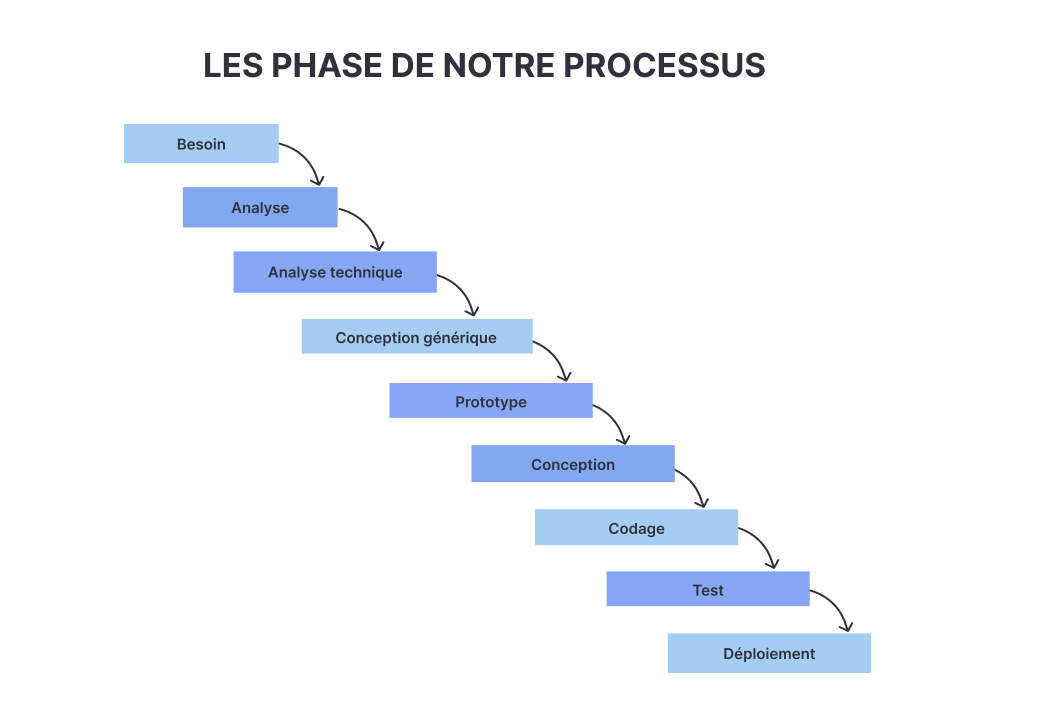
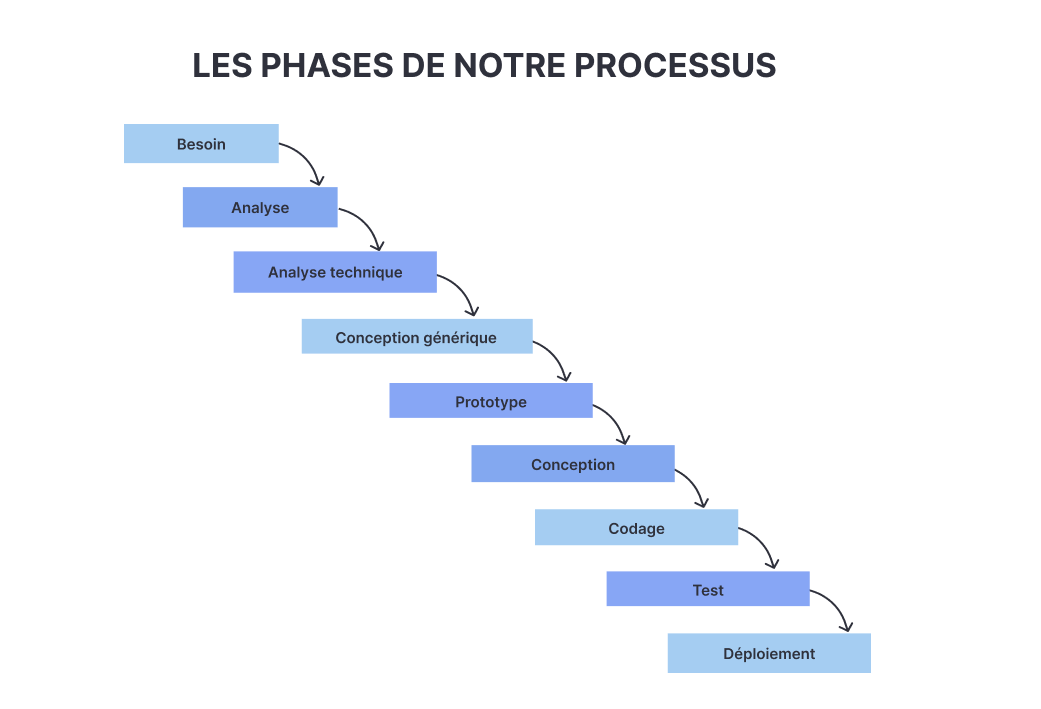
save

Changed region(s): [[0.1844, 0.0621, 0.7685, 0.1241]]

diff --git a/docs/6.Expose-des-phase-de-notre-processus/expose-des-phase-de-notre-processus.md b/docs/6.Expose-des-phase-de-notre-processus/expose-des-phase-de-notre-processus.md
@@ -13,7 +13,7 @@ order: 1
 <!-- new slide -->
 ## Introduction
 
-![Les phase de notre processus](../expose-des-phase-de-notre-processus/images/Exposé-des-phase-de-notre-processus.png)
+![Les phase de notre processus](../6.Expose-des-phase-de-notre-processus/images/Exposé-des-phase-de-notre-processus.png)
 
 <!-- note -->
 Dans notre processus de développement, nous suivons une approche structurée comprenant plusieurs phases essentielles : Besoin, Analyse, Analyse Technique, Conception Générique, Prototype, Conception, Codage, Test, et Déploiement. Cette séquence garantit l'efficacité et la qualité dans la réalisation de nos produits ou solutions. En commençant par l'identification des besoins du projet, nous passons par une analyse approfondie pour comprendre la portée et les contraintes. La conception générique pose les bases de l'architecture du projet, suivie par la création de prototypes pour valider les concepts et recueillir des retours. Le codage permet ensuite de mettre en œuvre le design dans des logiciels ou systèmes fonctionnels, suivis par des tests rigoureux pour assurer la fiabilité et la performance. Enfin, le déploiement marque la transition vers la phase opérationnelle, où le produit est prêt à être utilisé. Cette approche séquentielle assure un développement efficace et organisé.
